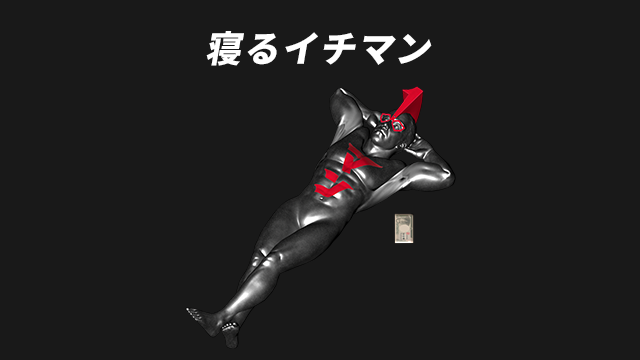
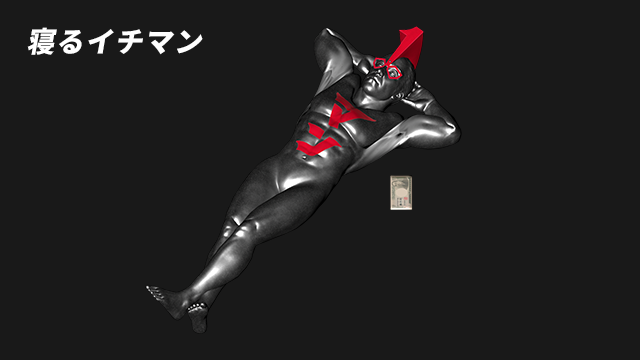
サムネの変更

Changed region(s): [[0.0312, 0.0611, 0.7188, 0.9167], [0.2188, 0.7944, 0.25, 0.825]]

diff --git a/sleep.html b/sleep.html
@@ -5,38 +5,49 @@
     <meta charset="UTF-8">
     <meta name="viewport" content="width=device-width, initial-scale=1.0">
     <meta http-equiv="X-UA-Compatible" content="ie=edge">
-    <link href="https://unpkg.com/sanitize.css" rel="stylesheet" />
-    <link rel="stylesheet" href="style.css">
-    <title>イチマンAR</title>
+    <link href="https://unpkg.com/sanitize.css" rel="stylesheet">
+    <link href="style.css" rel="stylesheet">
+    <title>寝るイチマン | イチマンAR</title>
     <meta name="description" content="マッハバイトのヒーロー、イチマンの3Dモデルを使ったARコンテンツです。">
-    <meta property="og:title" content="イチマンAR">
-    <link href="/favicon.ico" rel="shortcut icon" type="image/icon">
+    <meta property="og:title" content="寝るイチマン | イチマンARイチマンAR">
+    <link href="./images/favicon.ico" rel="shortcut icon" type="image/icon">
+    <link href="./images/apple-touch-icon.png" rel="apple-touch-icon" sizes="180x180" >
+    <link href="./images/android-chrome-192x192.png" rel="icon" type="image/png" sizes="192x192">
 </head>
 
 <body>
     <script type="module" src="https://unpkg.com/@google/model-viewer@0.3.1/dist/model-viewer.js"></script>
     <script nomodule src="https://unpkg.com/@google/model-viewer/dist/model-viewer-legacy.js"></script>
     <main>
-        <div class="logo">
-            <h1><img src="images/logo.svg" alt="イチマンAR"></h1>
-        </div>
-        <div class="desc">
-            <p>マッハバイトの<span>正体不明のヒーロー、</span><span>イチマン</span>を<span>現実世界</span>に呼び出そう。</p>
+        <div class="logo_mini">
+            <h1><a href="./index.html"><img src="images/logo.svg" alt="イチマンAR"></a></h1>
         </div>
         <div class="guide">
-            <p class="guide__tap"><img src="./images/ar_icon.png" alt="ARアイコン">マークをタップしてください。</p>
+            <p class="guide__tap">スマホの方は<img src="./images/ar_icon.png" alt="ARアイコン">マークをタップしてください。</p>
 
         </div>
         <div class="ar">
             <div class="ar__model ar__model__reveal">
-                <model-viewer poster="images/poster_sleep.png" reveal="interaction" auto-rotate camera-controls
+                <model-viewer preload poster="images/poster_sleep.png" reveal="interaction" auto-rotate camera-controls
                     background-color="#191919" src="images/sleep_ichiman.glb" ios-src="images/sleep_ichiman.usdz"
                     alt="イチマン" ar>
                 </model-viewer>
+                <div class="ar__model__reveal__title">
+                    <h3>寝るイチマン</h3>
+                    <p>sleeping_ichiman</p>
+                </div>
                 <div class="ar__model__reveal__text">
-                    <p>タップでモデルが読み込まれます。10MB ~15MB</p>
+                    <p>タップでモデルが読み込まれます。約15MB</p>
                 </div>
             </div>
+            <div class="ar__other">
+                    <h3>他のイチマンをみる</h3>
+                    <div class="ar__other__models">
+                        <div class="ar__other__model"><a href="./index.html"><img src="./images/thumb_run.png" alt="走るイチマン"></a>
+                        </div>
+                        <div class="ar__other__model"><a href="./index.html"><img src="./images/thumb_run.png" alt="走るイチマン"></a>
+                        </div>
+                </div>
         </div>
         <div class="guide">
             <div class="guide__attention">
@@ -48,7 +59,7 @@
             </div>
             <hr>
             <div class="guide__about">
-                <h2>素材について</h2>
+                <h2><img src="./images/emoji_1.png" alt="イチマン絵文字">素材について</h2>
                 <p>このサイトで使用している素材は下記のサイトにて配布されているものを利用してます。
                     <a href="https://ichiman.j-sen.jp/" target="_blank">https://ichiman.j-sen.jp/</a>
                 </p>
@@ -56,7 +67,7 @@
         </div>
     </main>
     <footer>
-        <p>created by @juuunnnk</p>
+        <p>created by <a href="https://twitter.com/juuunnnk" target="_blank">@juuunnnk</a></p>
     </footer>
 </body>
 

diff --git a/index.html b/index.html
@@ -5,8 +5,8 @@
     <meta charset="UTF-8">
     <meta name="viewport" content="width=device-width, initial-scale=1.0">
     <meta http-equiv="X-UA-Compatible" content="ie=edge">
-    <link href="https://unpkg.com/sanitize.css" rel="stylesheet" />
-    <link rel="stylesheet" href="style.css">
+    <link href="https://unpkg.com/sanitize.css" rel="stylesheet">
+    <link href="style.css" rel="stylesheet">
     <title>イチマンAR</title>
     <meta name="description" content="マッハバイトのヒーロー、イチマンの3Dモデルを使ったARコンテンツです。">
     <meta property="og:title" content="イチマンAR">
@@ -24,21 +24,26 @@
             <p>マッハバイトの<span>正体不明のヒーロー、</span><span>イチマン</span>を<span>現実世界</span>に呼び出そう。</p>
         </div>
         <div class="guide">
-            <p class="guide__tap"><img src="./images/ar_icon.png" alt="ARアイコン">マークをタップしてください。</p>
-
+            <p class="guide__tap">スマホの方は<img src="./images/ar_icon.png" alt="ARアイコン">マークをタップしてください。</p>
         </div>
         <div class="ar">
-            <model-viewer poster="images/poster.png" auto-rotate camera-controls background-color="#191919"
-                src="images/ichiman.glb" ios-src="images/ichiman.usdz" alt="イチマン" ar>
-            </model-viewer>
+            <div class="ar__model ar__model__reveal">
+                <model-viewer preload poster="images/poster.png" auto-rotate camera-controls
+                            background-color="#191919" src="images/ichiman.glb" ios-src="images/ichiman.usdz"
+                            alt="イチマン" ar>
+                </model-viewer>
+                <div class="ar__model__reveal__title">
+                    <h3>走るイチマン</h3>
+                    <p>running_ichiman</p>
+                </div>
+            </div>
             <div class="ar__other">
                 <h3>他のイチマンをみる</h3>
                 <div class="ar__other__models">
-                    <div class="ar__other__model"><a href="./sleep.html"><img src="./images/thumb_sleep.png" alt=""></a>
+                    <div class="ar__other__model"><a href="./sleep.html"><img src="./images/thumb_sleep.png" alt="寝るイチマン"></a>
                     </div>
-                    <div class="ar__other__model"><a href="./sleep.html"><img src="./images/thumb_sleep.png" alt=""></a>
+                    <div class="ar__other__model"><a href="./sleep.html"><img src="./images/thumb_sleep.png" alt="寝るイチマン"></a>
                     </div>
-                </div>
             </div>
         </div>
         <div class="guide">

diff --git a/style.css b/style.css
@@ -6,6 +6,10 @@ html {
     line-height: 1.75;
 }
 
+::selection {
+    background: #fc0037;
+}
+
 a {
     color: #fff;
 }
@@ -25,13 +29,9 @@ main {
 }
 
 model-viewer {
-    margin: 0 auto;
     width: 100%;
     height: 375px;
-    max-width: 700px;
     outline: none;
-    margin-bottom: 40px;
-
 }
 
 
@@ -43,6 +43,12 @@ model-viewer {
 
 .logo img {
     width: 100%;
+}
+
+.logo_mini {
+    max-width: 240px;
+    margin: 60px auto;
+
 }
 
 .desc {
@@ -61,21 +67,44 @@ model-viewer {
 }
 
 .ar {
+    margin: 0 auto;
     text-align: center;
+    max-width: 700px;
 }
 
-
-
+.ar__model {
+    margin-bottom: 40px;
+}
 
 .ar__model__reveal {
     position: relative;
 }
 
 
-.ar__model__reveal__text {
+.ar__model__reveal__title {
     width: 100%;
     position: absolute;
-    bottom: 10px;
+    top: 10px;
+    font-size: 20px;
+    text-align: left;
+}
+
+.ar__model__reveal__title h3 {
+    font-style: italic;
+    margin: 0;
+    margin-left: 20px;
+}
+
+.ar__model__reveal__title p {
+    font-style: italic;
+    margin: 0;
+    margin-left: 20px;
+    font-size: 12px;
+}
+
+
+.ar__model__reveal__text {
+    width: 100%;
 }
 
 
@@ -121,6 +150,10 @@ model-viewer {
 }
 
 
+.guide__tap img{
+    margin-left: 8px;
+}
+
 .guide__attention p {
     margin: 6px;
 }
@@ -131,7 +164,6 @@ model-viewer {
     text-align: left;
     font-size: 1.2rem;
 }
-
 
 
 .guide__about {
@@ -175,6 +207,8 @@ footer {
         margin-right: 10px;
         margin-left: 10px; 
 
-    }    
-
+    } 
+    .ar__other__model {
+        margin: 0 5px;
+    }
 }
